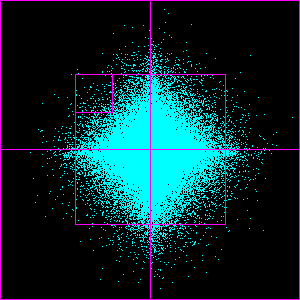
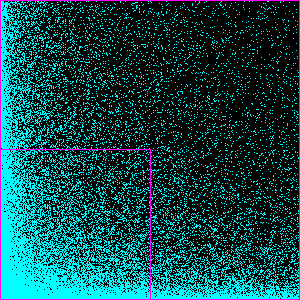
checkpoint

diff --git a/src/main/java/example/Example.java b/src/main/java/example/Example.java
@@ -35,11 +35,11 @@ public class Example {
 
     private static List<Point> generateRandomInput() {
         Random rand = new Random();
-        return IntStream.range(0, 100000).mapToObj((x) ->
+        return IntStream.range(0, 1000).mapToObj((x) ->
                 geometryFactory.createPoint(
                         new Coordinate(
-                                rand.nextGaussian() * rand.nextInt(50000),
-                                rand.nextGaussian() * rand.nextInt(50000)
+                                rand.nextGaussian() * rand.nextInt(500),
+                                rand.nextGaussian() * rand.nextInt(500)
                         )))
                 .collect(Collectors.toList());
 
@@ -76,8 +76,11 @@ public class Example {
 
         JavaSparkContext sc = new JavaSparkContext(conf);
 
-        List<Point> points = generateRandomInput();
-        PointRDD data = new PointRDD(sc.parallelize(points, 10));
+
+//        List<Point> points = generateRandomInput();
+//        PointRDD data = new PointRDD(sc.parallelize(points, 50));
+
+        PointRDD data = new GenerateZipfData(0.8).generate(100000, 800000, sc.sc());
 
         data.analyze();
         data.spatialPartitioning(GridType.EQUALGRID);
@@ -92,7 +95,7 @@ public class Example {
         do {
             prevCount = nextRdd.approximateTotalCount;
             System.out.println("Before # of Points = " + prevCount);
-            nextRdd = OutliersDetection.findOutliers(nextRdd, 500, 500);
+            nextRdd = OutliersDetectionQ.findOutliers(nextRdd, 1000, 500);
             nextCount = nextRdd.approximateTotalCount;
             System.out.println("After # of Points = " + nextCount);
             if (prevCount != nextCount)
